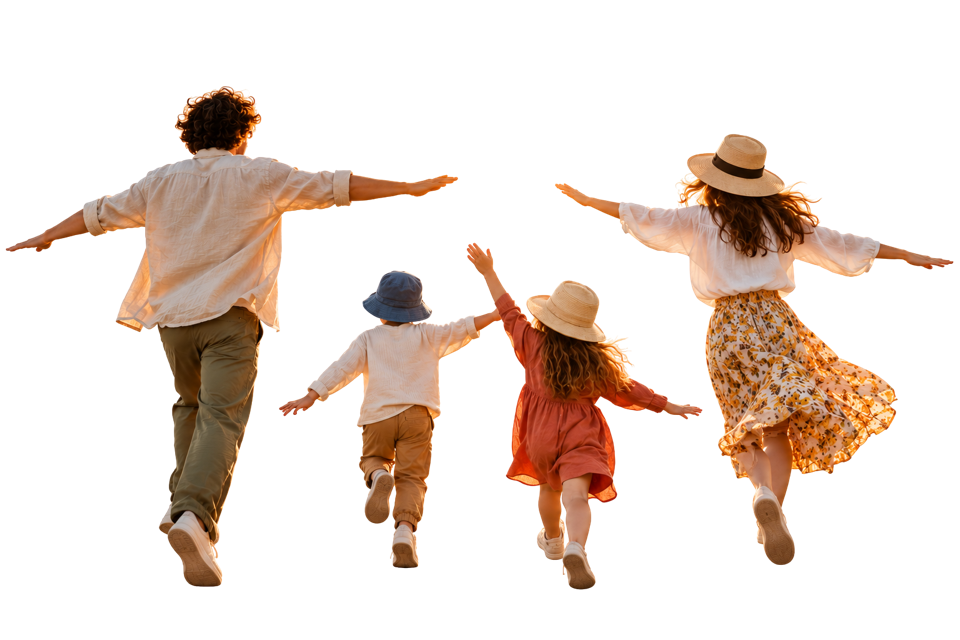
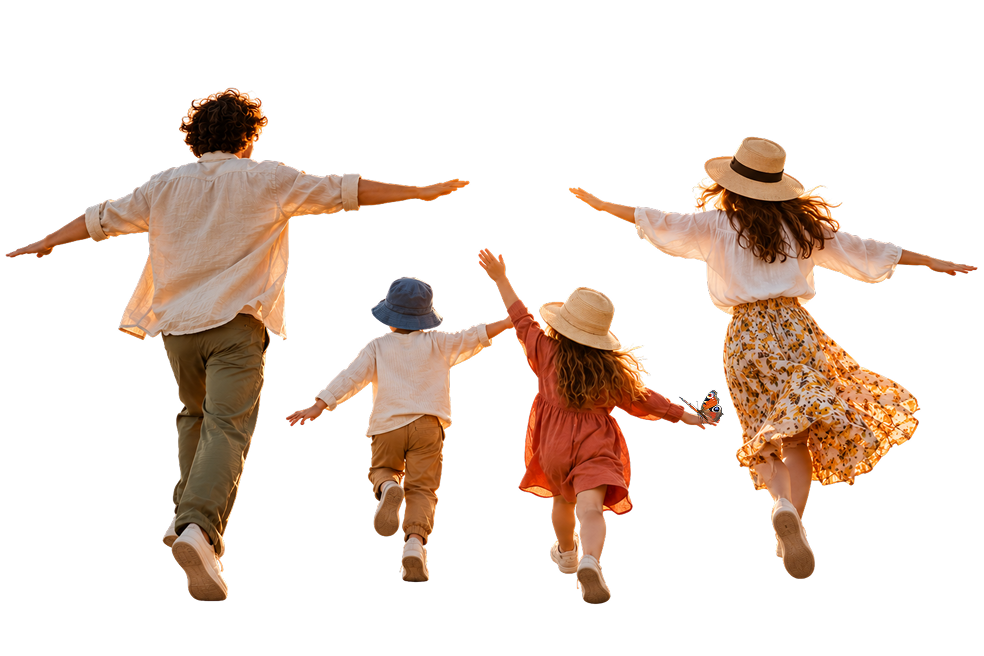
thank-you: new family image (with butterfly), not mirrored

diff --git a/thank-you/index.html b/thank-you/index.html
@@ -114,7 +114,7 @@
       })();
     </script><!-- First-touch attribution — a port of thebinaschool.com/attribution.js. Carries
          utm_*, gclid, fbclid and the partner ?ref= onto form CTAs, start.bina.school links
-         and the HTTPS main-site homepage. --><script defer src="../attribution.js"></script><link rel="stylesheet" href="../_astro/BaseLayout.SauCMC2q.css"></head> <body> <nav class="theme-black sticky top-0 z-50 flex h-20 items-center justify-between px-5 sm:px-10"> <a href="https://thebinaschool.com" aria-label="bina — home"> <img src="../images/navbar-logo-2026.svg" alt="bina" width="147" height="62" class="h-9 w-auto"> </a>  <ul class="hidden flex-1 items-center justify-between px-[82px] xl:flex"> <li><a href="https://thebinaschool.com/education" class="nav-link font-display text-[19px] font-bold text-lagoon">Education</a></li><li><a href="https://thebinaschool.com/teachers" class="nav-link font-display text-[19px] font-bold text-lagoon">Teachers</a></li><li><a href="https://thebinaschool.com/primary-school" class="nav-link font-display text-[19px] font-bold text-lagoon">Primary School</a></li><li><a href="https://thebinaschool.com/middle-school" class="nav-link font-display text-[19px] font-bold text-lagoon">Middle School</a></li><li><a href="https://thebinaschool.com/about" class="nav-link font-display text-[19px] font-bold text-lagoon">About us</a></li><li><a href="https://thebinaschool.com/admissions" class="nav-link font-display text-[19px] font-bold text-lagoon">Admissions</a></li><li><a href="https://thebinaschool.com/tuition" class="nav-link font-display text-[19px] font-bold text-lagoon">Tuition</a></li><li><a href="https://thebinaschool.com/open-house" class="nav-link font-display text-[19px] font-bold text-lagoon">Open House</a></li><li><a href="https://thebinaschool.com/blog" class="nav-link font-display text-[19px] font-bold text-lagoon">Blog</a></li> </ul> <details class="main-nav-menu xl:hidden"> <summary aria-label="Menu" class="flex h-[29px] w-[37px] cursor-pointer list-none items-center justify-center"> <svg width="25" height="19" viewBox="0 0 25 19" aria-hidden="true" class="text-lagoon"><path d="M0 1.5h25M0 9.5h25M0 17.5h25" stroke="currentColor" stroke-width="3"></path></svg> </summary> <ul class="theme-black absolute inset-x-0 top-20 flex flex-col gap-4 px-5 pb-8 pt-4 sm:px-10"> <li><a href="https://thebinaschool.com/education" class="nav-link font-display text-title-sm font-bold text-lagoon">Education</a></li><li><a href="https://thebinaschool.com/teachers" class="nav-link font-display text-title-sm font-bold text-lagoon">Teachers</a></li><li><a href="https://thebinaschool.com/primary-school" class="nav-link font-display text-title-sm font-bold text-lagoon">Primary School</a></li><li><a href="https://thebinaschool.com/middle-school" class="nav-link font-display text-title-sm font-bold text-lagoon">Middle School</a></li><li><a href="https://thebinaschool.com/about" class="nav-link font-display text-title-sm font-bold text-lagoon">About us</a></li><li><a href="https://thebinaschool.com/admissions" class="nav-link font-display text-title-sm font-bold text-lagoon">Admissions</a></li><li><a href="https://thebinaschool.com/tuition" class="nav-link font-display text-title-sm font-bold text-lagoon">Tuition</a></li><li><a href="https://thebinaschool.com/open-house" class="nav-link font-display text-title-sm font-bold text-lagoon">Open House</a></li><li><a href="https://thebinaschool.com/blog" class="nav-link font-display text-title-sm font-bold text-lagoon">Blog</a></li> </ul> </details>  </nav> <main>   <section class="theme-mint relative h-[calc(281px+57.07vw)] overflow-x-clip sm:h-[495px] lg:h-[459px]"> <div class="pointer-events-none absolute bottom-0 left-[-99.73vw] w-[223.47vw] overflow-hidden sm:left-0 sm:h-[12.5vw] sm:w-full min-[1440px]:h-[180px]!" aria-hidden="true"> <div class="relative aspect-[838/138] w-full overflow-hidden min-[1440px]:aspect-auto! min-[1440px]:h-[237px]!"> <img src="../images/thank-you/grass.png" alt="" width="1920" height="1080" class="absolute left-0 top-[-197.91%] h-[297.91%] w-full max-w-none min-[1440px]:object-cover! min-[1440px]:object-bottom!"> </div> </div> <img src="../images/thank-you/family.png" alt="A family running across a meadow with their arms out like airplanes" width="960" height="640" class="pointer-events-none absolute left-[5.33vw] top-[281px] aspect-[3/2] w-[76.8vw] max-w-none -scale-x-100 object-cover sm:top-auto sm:bottom-[5px] sm:left-[44vw] sm:w-[45vw] lg:left-[55.35vw] lg:w-[31.04vw] min-[1440px]:left-[calc(50%+77px)]! min-[1440px]:w-[447px]!"> <div class="relative mx-auto max-w-5xl px-5 pt-14 lg:pt-[89px]"> <h1 class="flex flex-col gap-4 sm:gap-6"> <span class="text-[56px] leading-[44px] sm:text-[100px] sm:leading-[64px]">Thank you!</span> <span class="text-title-xl leading-[44px] text-hl sm:text-title-4xl sm:leading-[64px]">We got your request.</span> </h1> <p class="mt-4 max-w-[577px] text-pretty text-[18px] font-medium leading-[27px] sm:mt-6 sm:text-[20px]"> Your child’s bina journey starts here.<br class="hidden sm:inline"> Here’s what to expect over the next few days. </p> </div> </section>  <div class="relative z-10 h-0 overflow-x-clip" aria-hidden="true"> <div class="absolute left-[68.53vw] top-[-36.8vw] aspect-[135/164] w-[36vw] -scale-x-100 overflow-hidden sm:left-[84vw] sm:top-[-19vw] sm:aspect-[178/216] sm:w-[16vw] lg:left-[85.56vw] lg:top-[-13.68vw] lg:w-[12.36vw] min-[1440px]:left-[calc(50%+512px)]! min-[1440px]:top-[-197px]! min-[1440px]:w-[178px]!"> <img src="../images/thank-you/dandelion.png" alt="" width="455" height="480" class="absolute left-0 top-[-0.03%] h-[104.19%] w-[120.07%] max-w-none"> </div> </div>  <section class="theme-base overflow-x-clip"> <div class="mx-auto max-w-5xl px-5 pb-[72px] pt-14 lg:pb-[83px]"> <h2 class="pt-3 text-title-xl sm:text-title-3xl">What happens next</h2> <ol class="mt-8 grid gap-4 sm:grid-cols-2 lg:h-[256px] lg:grid-cols-4"> <li class="rounded-lg p-6 text-black min-h-[190px] bg-mint lg:min-h-0"> <div class="h-[60px] pb-5"> <span class="grid size-10 place-items-center rounded-full bg-black text-[16px] font-bold leading-6 text-mint"><svg role="img" aria-label="Done" width="20" height="20" viewBox="0 0 20 20" fill="none"><path d="M5 10.5l3.25 3.25L15 7" stroke="currentColor" stroke-width="2.25" stroke-linecap="round" stroke-linejoin="round"></path></svg></span> </div> <h3 class="pb-2 text-[20px] font-bold leading-[22px]">Form sent</h3> <p class="text-pretty text-body-lg"> You took the first step. We have everything we need. </p> </li><li class="rounded-lg p-6 text-black min-h-[220px] bg-lagoon lg:min-h-0"> <div class="h-[60px] pb-5"> <span class="grid size-10 place-items-center rounded-full bg-black text-[16px] font-bold leading-6 text-lagoon" aria-hidden="true">2</span> </div> <h3 class="pb-2 text-[20px] font-bold leading-[22px]">We call you within one working day</h3> <p class="text-pretty text-body-lg"> An admissions team member reaches out, Monday to Friday, during your daytime. </p> </li><li class="rounded-lg p-6 text-black min-h-[190px] bg-mint lg:min-h-0"> <div class="h-[60px] pb-5"> <span class="grid size-10 place-items-center rounded-full bg-black text-[16px] font-bold leading-6 text-mint" aria-hidden="true">3</span> </div> <h3 class="pb-2 text-[20px] font-bold leading-[22px]">Discovery call</h3> <p class="text-pretty text-body-lg"> A short call: you ask us anything, we ask about your child and your goals. </p> </li><li class="rounded-lg p-6 text-black min-h-[190px] bg-mint lg:min-h-0"> <div class="h-[60px] pb-5"> <span class="grid size-10 place-items-center rounded-full bg-black text-[16px] font-bold leading-6 text-mint" aria-hidden="true">4</span> </div> <h3 class="pb-2 text-[20px] font-bold leading-[22px]">Next steps, together</h3> <p class="text-pretty text-body-lg"> We agree on the best next step for your child. </p> </li> </ol> </div> </section>  <section class="theme-lagoon"> <div class="mx-auto max-w-5xl px-5 pb-14 pt-14 lg:pb-[72px]"> <h2 class="text-title-xl sm:text-title-3xl lg:pt-3">What learning at bina looks like</h2> <div class="-mx-1 lg:mx-0"> <div class="mt-8 grid gap-4 lg:grid-cols-5 lg:grid-rows-[320px]"> <a href="https://www.youtube.com/watch?v=hcZdfA3Piko" target="_blank" rel="noopener noreferrer" aria-label="Watch “One Ordinary Day at bina” on YouTube" class="no-underline relative block aspect-[343/193] overflow-hidden rounded-lg bg-black lg:col-span-3 lg:aspect-auto lg:h-full"> <img src="../images/thank-you/video-poster.jpg" alt="" width="1280" height="720" loading="lazy" class="absolute inset-0 h-full w-full object-cover"> <!-- Play button: an SVG, not a play character, which iPhones draw as a grey emoji (Lorraine, 2026-11-17). --> <svg class="absolute left-1/2 top-1/2 size-[62px] -translate-x-1/2 -translate-y-1/2" width="62" height="62" viewBox="0 0 62 62" fill="none" aria-hidden="true"><circle cx="31" cy="31" r="31" fill="#55EED4"></circle><path d="M45 28.7679C46.3333 29.5378 46.3333 31.4622 45 32.232L24.75 43.9234C23.4167 44.6932 21.75 43.7309 21.75 42.1913L21.75 18.8087C21.75 17.2691 23.4167 16.3068 24.75 17.0766L45 28.7679Z" fill="black"></path></svg> </a> <figure class="flex flex-col gap-8 rounded-lg bg-black p-8 lg:col-span-2 lg:gap-0 lg:justify-between"> <blockquote> <p class="h-[69px] pb-4 text-[48px] font-bold leading-[52.8px] text-lagoon" aria-hidden="true">“</p> <p class="text-[20px] font-medium leading-[22px] text-mint">Our 6 year-old started this year and he loves it. He has so much fun with his activities that he barely notices he’s learning, and we’ve seen huge progress in his reading and writing.</p> </blockquote> <figcaption class="text-body-lg font-medium text-lagoon"> bina parent<br>
+         and the HTTPS main-site homepage. --><script defer src="../attribution.js"></script><link rel="stylesheet" href="../_astro/BaseLayout.SauCMC2q.css"></head> <body> <nav class="theme-black sticky top-0 z-50 flex h-20 items-center justify-between px-5 sm:px-10"> <a href="https://thebinaschool.com" aria-label="bina — home"> <img src="../images/navbar-logo-2026.svg" alt="bina" width="147" height="62" class="h-9 w-auto"> </a>  <ul class="hidden flex-1 items-center justify-between px-[82px] xl:flex"> <li><a href="https://thebinaschool.com/education" class="nav-link font-display text-[19px] font-bold text-lagoon">Education</a></li><li><a href="https://thebinaschool.com/teachers" class="nav-link font-display text-[19px] font-bold text-lagoon">Teachers</a></li><li><a href="https://thebinaschool.com/primary-school" class="nav-link font-display text-[19px] font-bold text-lagoon">Primary School</a></li><li><a href="https://thebinaschool.com/middle-school" class="nav-link font-display text-[19px] font-bold text-lagoon">Middle School</a></li><li><a href="https://thebinaschool.com/about" class="nav-link font-display text-[19px] font-bold text-lagoon">About us</a></li><li><a href="https://thebinaschool.com/admissions" class="nav-link font-display text-[19px] font-bold text-lagoon">Admissions</a></li><li><a href="https://thebinaschool.com/tuition" class="nav-link font-display text-[19px] font-bold text-lagoon">Tuition</a></li><li><a href="https://thebinaschool.com/open-house" class="nav-link font-display text-[19px] font-bold text-lagoon">Open House</a></li><li><a href="https://thebinaschool.com/blog" class="nav-link font-display text-[19px] font-bold text-lagoon">Blog</a></li> </ul> <details class="main-nav-menu xl:hidden"> <summary aria-label="Menu" class="flex h-[29px] w-[37px] cursor-pointer list-none items-center justify-center"> <svg width="25" height="19" viewBox="0 0 25 19" aria-hidden="true" class="text-lagoon"><path d="M0 1.5h25M0 9.5h25M0 17.5h25" stroke="currentColor" stroke-width="3"></path></svg> </summary> <ul class="theme-black absolute inset-x-0 top-20 flex flex-col gap-4 px-5 pb-8 pt-4 sm:px-10"> <li><a href="https://thebinaschool.com/education" class="nav-link font-display text-title-sm font-bold text-lagoon">Education</a></li><li><a href="https://thebinaschool.com/teachers" class="nav-link font-display text-title-sm font-bold text-lagoon">Teachers</a></li><li><a href="https://thebinaschool.com/primary-school" class="nav-link font-display text-title-sm font-bold text-lagoon">Primary School</a></li><li><a href="https://thebinaschool.com/middle-school" class="nav-link font-display text-title-sm font-bold text-lagoon">Middle School</a></li><li><a href="https://thebinaschool.com/about" class="nav-link font-display text-title-sm font-bold text-lagoon">About us</a></li><li><a href="https://thebinaschool.com/admissions" class="nav-link font-display text-title-sm font-bold text-lagoon">Admissions</a></li><li><a href="https://thebinaschool.com/tuition" class="nav-link font-display text-title-sm font-bold text-lagoon">Tuition</a></li><li><a href="https://thebinaschool.com/open-house" class="nav-link font-display text-title-sm font-bold text-lagoon">Open House</a></li><li><a href="https://thebinaschool.com/blog" class="nav-link font-display text-title-sm font-bold text-lagoon">Blog</a></li> </ul> </details>  </nav> <main>   <section class="theme-mint relative h-[calc(281px+57.07vw)] overflow-x-clip sm:h-[495px] lg:h-[459px]"> <div class="pointer-events-none absolute bottom-0 left-[-99.73vw] w-[223.47vw] overflow-hidden sm:left-0 sm:h-[12.5vw] sm:w-full min-[1440px]:h-[180px]!" aria-hidden="true"> <div class="relative aspect-[838/138] w-full overflow-hidden min-[1440px]:aspect-auto! min-[1440px]:h-[237px]!"> <img src="../images/thank-you/grass.png" alt="" width="1920" height="1080" class="absolute left-0 top-[-197.91%] h-[297.91%] w-full max-w-none min-[1440px]:object-cover! min-[1440px]:object-bottom!"> </div> </div> <img src="../images/thank-you/family.png" alt="A family running across a meadow with their arms out like airplanes" width="984" height="656" class="pointer-events-none absolute left-[5.33vw] top-[281px] aspect-[3/2] w-[76.8vw] max-w-none object-cover sm:top-auto sm:bottom-[5px] sm:left-[44vw] sm:w-[45vw] lg:left-[55.35vw] lg:w-[31.04vw] min-[1440px]:left-[calc(50%+77px)]! min-[1440px]:w-[447px]!"> <div class="relative mx-auto max-w-5xl px-5 pt-14 lg:pt-[89px]"> <h1 class="flex flex-col gap-4 sm:gap-6"> <span class="text-[56px] leading-[44px] sm:text-[100px] sm:leading-[64px]">Thank you!</span> <span class="text-title-xl leading-[44px] text-hl sm:text-title-4xl sm:leading-[64px]">We got your request.</span> </h1> <p class="mt-4 max-w-[577px] text-pretty text-[18px] font-medium leading-[27px] sm:mt-6 sm:text-[20px]"> Your child’s bina journey starts here.<br class="hidden sm:inline"> Here’s what to expect over the next few days. </p> </div> </section>  <div class="relative z-10 h-0 overflow-x-clip" aria-hidden="true"> <div class="absolute left-[68.53vw] top-[-36.8vw] aspect-[135/164] w-[36vw] -scale-x-100 overflow-hidden sm:left-[84vw] sm:top-[-19vw] sm:aspect-[178/216] sm:w-[16vw] lg:left-[85.56vw] lg:top-[-13.68vw] lg:w-[12.36vw] min-[1440px]:left-[calc(50%+512px)]! min-[1440px]:top-[-197px]! min-[1440px]:w-[178px]!"> <img src="../images/thank-you/dandelion.png" alt="" width="455" height="480" class="absolute left-0 top-[-0.03%] h-[104.19%] w-[120.07%] max-w-none"> </div> </div>  <section class="theme-base overflow-x-clip"> <div class="mx-auto max-w-5xl px-5 pb-[72px] pt-14 lg:pb-[83px]"> <h2 class="pt-3 text-title-xl sm:text-title-3xl">What happens next</h2> <ol class="mt-8 grid gap-4 sm:grid-cols-2 lg:h-[256px] lg:grid-cols-4"> <li class="rounded-lg p-6 text-black min-h-[190px] bg-mint lg:min-h-0"> <div class="h-[60px] pb-5"> <span class="grid size-10 place-items-center rounded-full bg-black text-[16px] font-bold leading-6 text-mint"><svg role="img" aria-label="Done" width="20" height="20" viewBox="0 0 20 20" fill="none"><path d="M5 10.5l3.25 3.25L15 7" stroke="currentColor" stroke-width="2.25" stroke-linecap="round" stroke-linejoin="round"></path></svg></span> </div> <h3 class="pb-2 text-[20px] font-bold leading-[22px]">Form sent</h3> <p class="text-pretty text-body-lg"> You took the first step. We have everything we need. </p> </li><li class="rounded-lg p-6 text-black min-h-[220px] bg-lagoon lg:min-h-0"> <div class="h-[60px] pb-5"> <span class="grid size-10 place-items-center rounded-full bg-black text-[16px] font-bold leading-6 text-lagoon" aria-hidden="true">2</span> </div> <h3 class="pb-2 text-[20px] font-bold leading-[22px]">We call you within one working day</h3> <p class="text-pretty text-body-lg"> An admissions team member reaches out, Monday to Friday, during your daytime. </p> </li><li class="rounded-lg p-6 text-black min-h-[190px] bg-mint lg:min-h-0"> <div class="h-[60px] pb-5"> <span class="grid size-10 place-items-center rounded-full bg-black text-[16px] font-bold leading-6 text-mint" aria-hidden="true">3</span> </div> <h3 class="pb-2 text-[20px] font-bold leading-[22px]">Discovery call</h3> <p class="text-pretty text-body-lg"> A short call: you ask us anything, we ask about your child and your goals. </p> </li><li class="rounded-lg p-6 text-black min-h-[190px] bg-mint lg:min-h-0"> <div class="h-[60px] pb-5"> <span class="grid size-10 place-items-center rounded-full bg-black text-[16px] font-bold leading-6 text-mint" aria-hidden="true">4</span> </div> <h3 class="pb-2 text-[20px] font-bold leading-[22px]">Next steps, together</h3> <p class="text-pretty text-body-lg"> We agree on the best next step for your child. </p> </li> </ol> </div> </section>  <section class="theme-lagoon"> <div class="mx-auto max-w-5xl px-5 pb-14 pt-14 lg:pb-[72px]"> <h2 class="text-title-xl sm:text-title-3xl lg:pt-3">What learning at bina looks like</h2> <div class="-mx-1 lg:mx-0"> <div class="mt-8 grid gap-4 lg:grid-cols-5 lg:grid-rows-[320px]"> <a href="https://www.youtube.com/watch?v=hcZdfA3Piko" target="_blank" rel="noopener noreferrer" aria-label="Watch “One Ordinary Day at bina” on YouTube" class="no-underline relative block aspect-[343/193] overflow-hidden rounded-lg bg-black lg:col-span-3 lg:aspect-auto lg:h-full"> <img src="../images/thank-you/video-poster.jpg" alt="" width="1280" height="720" loading="lazy" class="absolute inset-0 h-full w-full object-cover"> <!-- Play button: an SVG, not a play character, which iPhones draw as a grey emoji (Lorraine, 2026-11-17). --> <svg class="absolute left-1/2 top-1/2 size-[62px] -translate-x-1/2 -translate-y-1/2" width="62" height="62" viewBox="0 0 62 62" fill="none" aria-hidden="true"><circle cx="31" cy="31" r="31" fill="#55EED4"></circle><path d="M45 28.7679C46.3333 29.5378 46.3333 31.4622 45 32.232L24.75 43.9234C23.4167 44.6932 21.75 43.7309 21.75 42.1913L21.75 18.8087C21.75 17.2691 23.4167 16.3068 24.75 17.0766L45 28.7679Z" fill="black"></path></svg> </a> <figure class="flex flex-col gap-8 rounded-lg bg-black p-8 lg:col-span-2 lg:gap-0 lg:justify-between"> <blockquote> <p class="h-[69px] pb-4 text-[48px] font-bold leading-[52.8px] text-lagoon" aria-hidden="true">“</p> <p class="text-[20px] font-medium leading-[22px] text-mint">Our 6 year-old started this year and he loves it. He has so much fun with his activities that he barely notices he’s learning, and we’ve seen huge progress in his reading and writing.</p> </blockquote> <figcaption class="text-body-lg font-medium text-lagoon"> bina parent<br>
 via <a href="https://www.niche.com/k12/bina-claymont-de/reviews/" target="_blank" rel="noopener noreferrer">Niche</a> </figcaption> </figure> </div> <a href="../family-survey/index.html" class="mt-8 inline-flex items-start gap-2 text-[20px] font-bold leading-[22px] text-black lg:mt-10"> Read the bina family survey <svg width="24" height="24" viewBox="0 0 24 24" fill="none" aria-hidden="true"><path d="M5 12h14M13 6l6 6-6 6" stroke="currentColor" stroke-width="2" stroke-linecap="round" stroke-linejoin="round"></path></svg> </a> </div> </div> </section>  </main> <!-- Footer (Zeyu, 2026-11-06): the main site's grouped footer — tagline column, one column per
          group (2 on phones, 3 from 640px, tagline + 5 from 1024px), the legal links in one row above
          the peeking logo (no divider line), and the Follow-us rail. Black / mint / lagoon: mint
